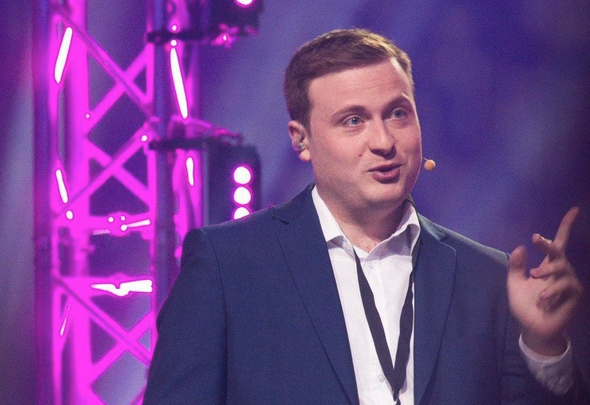
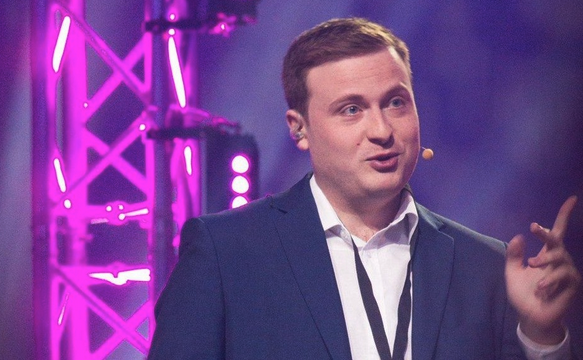
fixing mobile view

Changed region(s): [[0.0309, 0.0, 1.0, 1.0], [0.5249, 0.1833, 0.5557, 0.2139], [0.0309, 0.3361, 0.0617, 0.3667]]

diff --git a/index.html b/index.html
@@ -94,7 +94,7 @@
 										<h2><a>Consumer & Geographic<br />
 										Analysis Products</a></h2>
 									</header>
-									<a class="image fit"><img src="images/humn_example_web.png" alt="" height="275px"/></a>
+									<a class="image fit"><img src="images/humn_example_web.png" alt="" width="auto" height="100%"/></a>
 									<p>Delphinus Data is proud to partner with Humn Behavior, based in the USA,
 									for projects requiring a larger team or more involved software components.</p>
 									<p>For more information see <a href="https://humnbehavior.com/" target="_blank">Humn's website.</a></p>
@@ -108,7 +108,7 @@
 										<h2><a>Public Speaking<br />
 											on Data Topics</a></h2>
 									</header>
-									<a class="image fit"><img src="images/public_speaking_wide_web.png" alt="" height="275px"/></a>
+									<a class="image fit"><img src="images/public_speaking_wide_web.png" alt="" width="auto" height="100%"/></a>
 									<p>Our director, Dr. David Wilkinson, has over 10 years of experience
 										working in data science and experience in delivering talks and presentations
 										on a variety of data-related topics, including building and managing a

diff --git a/assets/css/main.css b/assets/css/main.css
@@ -3243,11 +3243,11 @@ input, select, textarea {
 			width: 100%;
 			height: 100%;
 			background-color: #212931;
-			background-image: url("../../images/delphinus_constellation_verytall.png"), linear-gradient(0deg, rgba(0, 0, 0, 0.1), rgba(0, 0, 0, 0.1)), url("../../images/delphinus_constellation_verytall.png");
-			background-size: auto,								auto,														100% auto;
-			background-position: top center,								top center,														top center;
-			background-repeat: repeat,								no-repeat,													no-repeat;
-			background-attachment: scroll,								scroll,														scroll;
+			background-image: url("../../images/delphinus_constellation_verytall.png"), linear-gradient(0deg, rgba(0, 0, 0, 0.1), rgba(0, 0, 0, 0.1));
+			background-size: auto,								auto;
+			background-position: top center,								top center;
+			background-repeat: repeat,								no-repeat;
+			background-attachment: scroll,								scroll;
 			z-index: -1;
 		}
 
@@ -3285,7 +3285,7 @@ input, select, textarea {
 		@media screen and (orientation: portrait) {
 
 			#wrapper > .bg {
-				background-size: auto,								auto,														auto 175%;
+				background-size: 300%,								auto;
 			}
 
 		}

diff --git a/aboutus.html b/aboutus.html
@@ -41,6 +41,7 @@
 
 						<!-- Post -->
 							<section class="post">
+								<br><br>
 								<header class="major">
 									<span class="date">About us</span>
 
@@ -54,8 +55,9 @@
 								</p>
 
 								<p>
-								<div><img src="images/mymug_web.png" class="w3-round-xxlarge" alt="" style="float: right" width="300" margin="0 0 0 30px"/></div>
-									David has over 7 years of experience working in data science in a professional
+								<div><img src="images/mymug_web.png" class="w3-round-xxlarge" alt="" style="float: right" width="300px" margin="0 20px 30px 20px"/></div>
+
+								David has over 7 years of experience working in data science in a professional
 								capacity, and will be the main point of contact for Delphinus' clients and will
 									often be the principal data scientist for client projects.
 								<br><br>

diff --git a/contact.html b/contact.html
@@ -41,6 +41,7 @@
 						<!-- Post -->
 							<section class="post">
 								<header class="major">
+									<br><br>
 									<span class="date">Contact Us</span>
 									<h3>Please click below to email us and we will be in touch!</h3>
 								</header>
